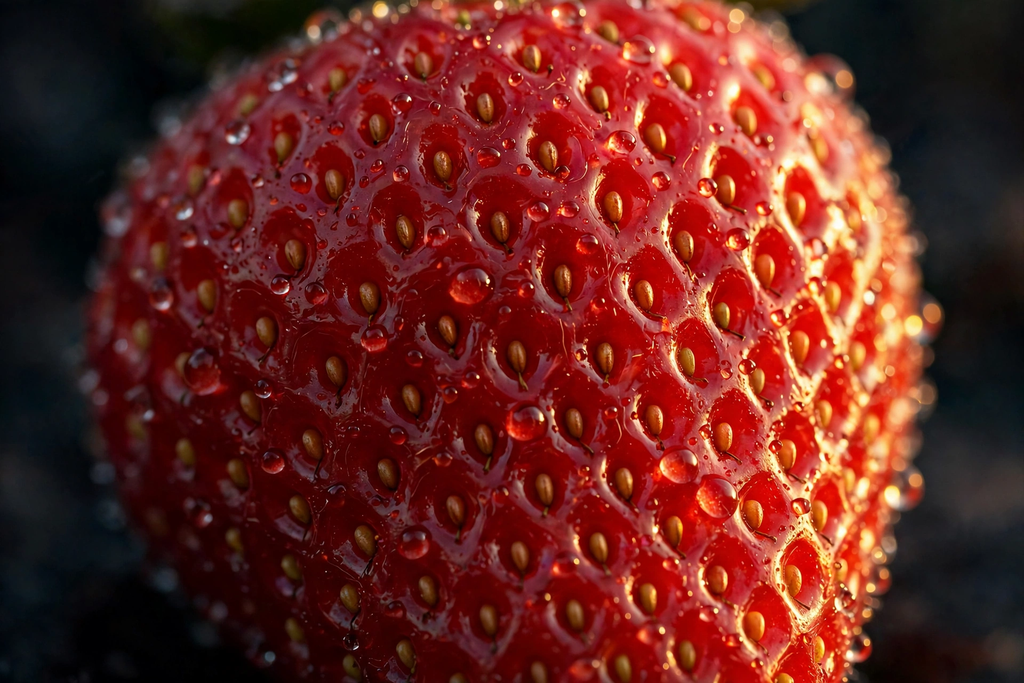
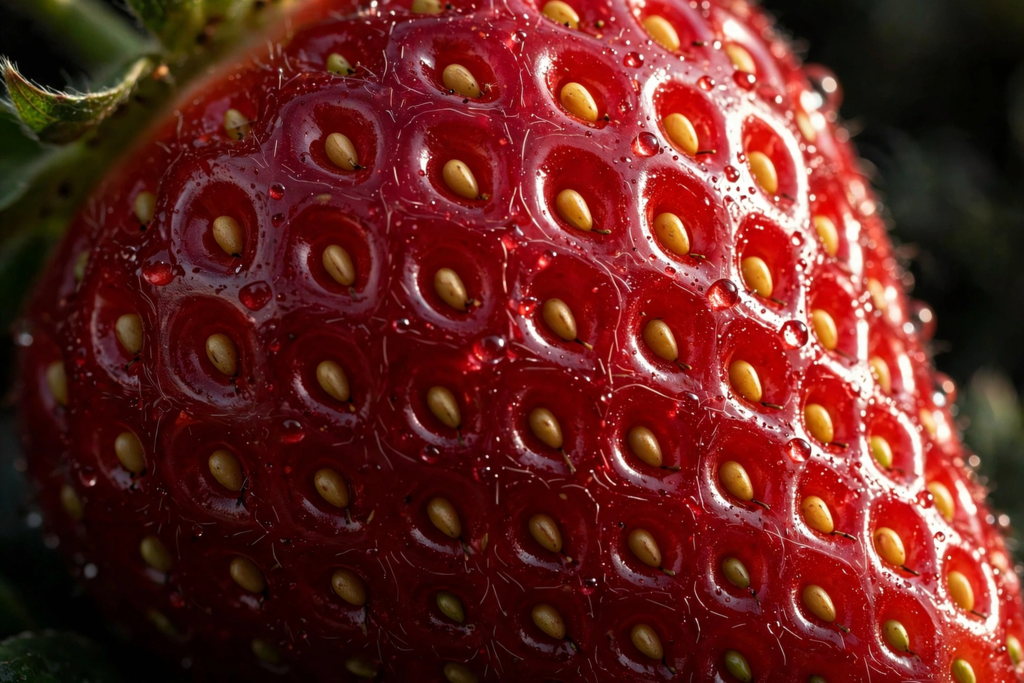
Rebuild entry fresh: new strawberry macro image, rewritten publisher, README and LICENSE

diff --git a/main.py b/main.py
@@ -1,43 +1,49 @@
-"""Entry point for the make.fun 'one ingredient' picture contest.
+#!/usr/bin/env python3
+"""Publish the strawberry picture to the contest output location.
 
-The artwork (a macro photograph of a single strawberry) ships inside
-this repository as ``entry.png``.  Running this module publishes that
-file to the contest output location so the grader can pick it up.
-
-Only the Python standard library is used, and no command-line
-arguments are read.
+The artwork lives next to this file as ``entry.png``. Running the
+program streams that file, unchanged, to ``entry.png`` inside the
+output directory: ``$MAKEFUN_OUTPUT_DIR`` when the harness sets it,
+otherwise ``/output``. Standard library only, no network access,
+no command-line arguments, and the working directory is irrelevant
+because every path is derived from this file's own location.
 """
 
 import os
 import shutil
-from pathlib import Path
+import sys
 
-# The picture lives right next to this module; resolving it from
-# __file__ keeps the program independent of the working directory.
-PICTURE_NAME = "entry.png"
-CHUNK = 256 * 1024
+CHUNK_SIZE = 128 * 1024
+ARTWORK_NAME = "entry.png"
 
 
-def artwork_path() -> Path:
-    """Return the path of the bundled picture."""
-    return Path(__file__).resolve().parent / PICTURE_NAME
+def artwork_source() -> str:
+    """Absolute path of the picture bundled beside this program."""
+    here = os.path.dirname(os.path.abspath(__file__))
+    return os.path.join(here, ARTWORK_NAME)
 
 
-def destination() -> Path:
-    """Return where the picture has to land for grading."""
-    folder = os.environ.get("MAKEFUN_OUTPUT_DIR") or "/output"
-    return Path(folder) / PICTURE_NAME
+def output_target() -> str:
+    """Absolute path the harness expects the picture to appear at."""
+    out_dir = os.environ.get("MAKEFUN_OUTPUT_DIR") or "/output"
+    return os.path.join(out_dir, ARTWORK_NAME)
 
 
-def publish() -> Path:
-    """Stream the bundled picture to the destination, in chunks."""
-    source = artwork_path()
-    target = destination()
-    target.parent.mkdir(parents=True, exist_ok=True)
-    with source.open("rb") as reading, target.open("wb") as writing:
-        shutil.copyfileobj(reading, writing, length=CHUNK)
-    return target
+def publish() -> str:
+    src = artwork_source()
+    dst = output_target()
+    os.makedirs(os.path.dirname(dst), exist_ok=True)
+    with open(src, "rb") as fin, open(dst, "wb") as fout:
+        shutil.copyfileobj(fin, fout, length=CHUNK_SIZE)
+    return dst
+
+
+def main() -> int:
+    written = publish()
+    size = os.path.getsize(written)
+    print(f"wrote {written} ({size} bytes)")
+    return 0
 
 
 if __name__ == "__main__":
-    publish()
+    sys.exit(main())

diff --git a/README.md b/README.md
@@ -4,7 +4,9 @@
 [![rank](https://make.fun/badge/the-picture-that-tastes-of-one-20261122-2047/freysiatiara/tastes-one-20261122/rank.svg)](https://make.fun/bounty/the-picture-that-tastes-of-one-20261122-2047/leaderboard?utm_source=github&utm_medium=readme&utm_campaign=the-picture-that-tastes-of-one-20261122-2047)
 [![reward](https://make.fun/badge/the-picture-that-tastes-of-one-20261122-2047/freysiatiara/tastes-one-20261122/reward.svg)](https://make.fun/bounty/the-picture-that-tastes-of-one-20261122-2047?utm_source=github&utm_medium=readme&utm_campaign=the-picture-that-tastes-of-one-20261122-2047)
 
-One ingredient, nothing else: an extreme close-up of a single ripe strawberry, its skin glossy with water droplets and every seed catching the light. The picture ships in this repository as `entry.png`; running the program copies it to the contest output folder (`/output/entry.png`, or `$MAKEFUN_OUTPUT_DIR` when that is set). Pure Python standard library, no network, no arguments.
+One strawberry, nothing else. An extreme macro photograph of a single ripe strawberry taken close enough to fill the frame: deep red skin stretched glossy and taut, pale seeds sunk in their pits, a scatter of fine hairs and fresh water droplets, every ridge catching a hard highlight against a soft dark background. It is built to be tasted with the eyes — one ingredient, at the distance where its texture does the talking.
+
+The picture ships in this repository as `entry.png` (1024×683 PNG). Running the program copies it, byte for byte, to the contest output folder (`/output/entry.png`, or `$MAKEFUN_OUTPUT_DIR` when that is set). Pure Python standard library, no network, no arguments.
 
 ## Run it
 
